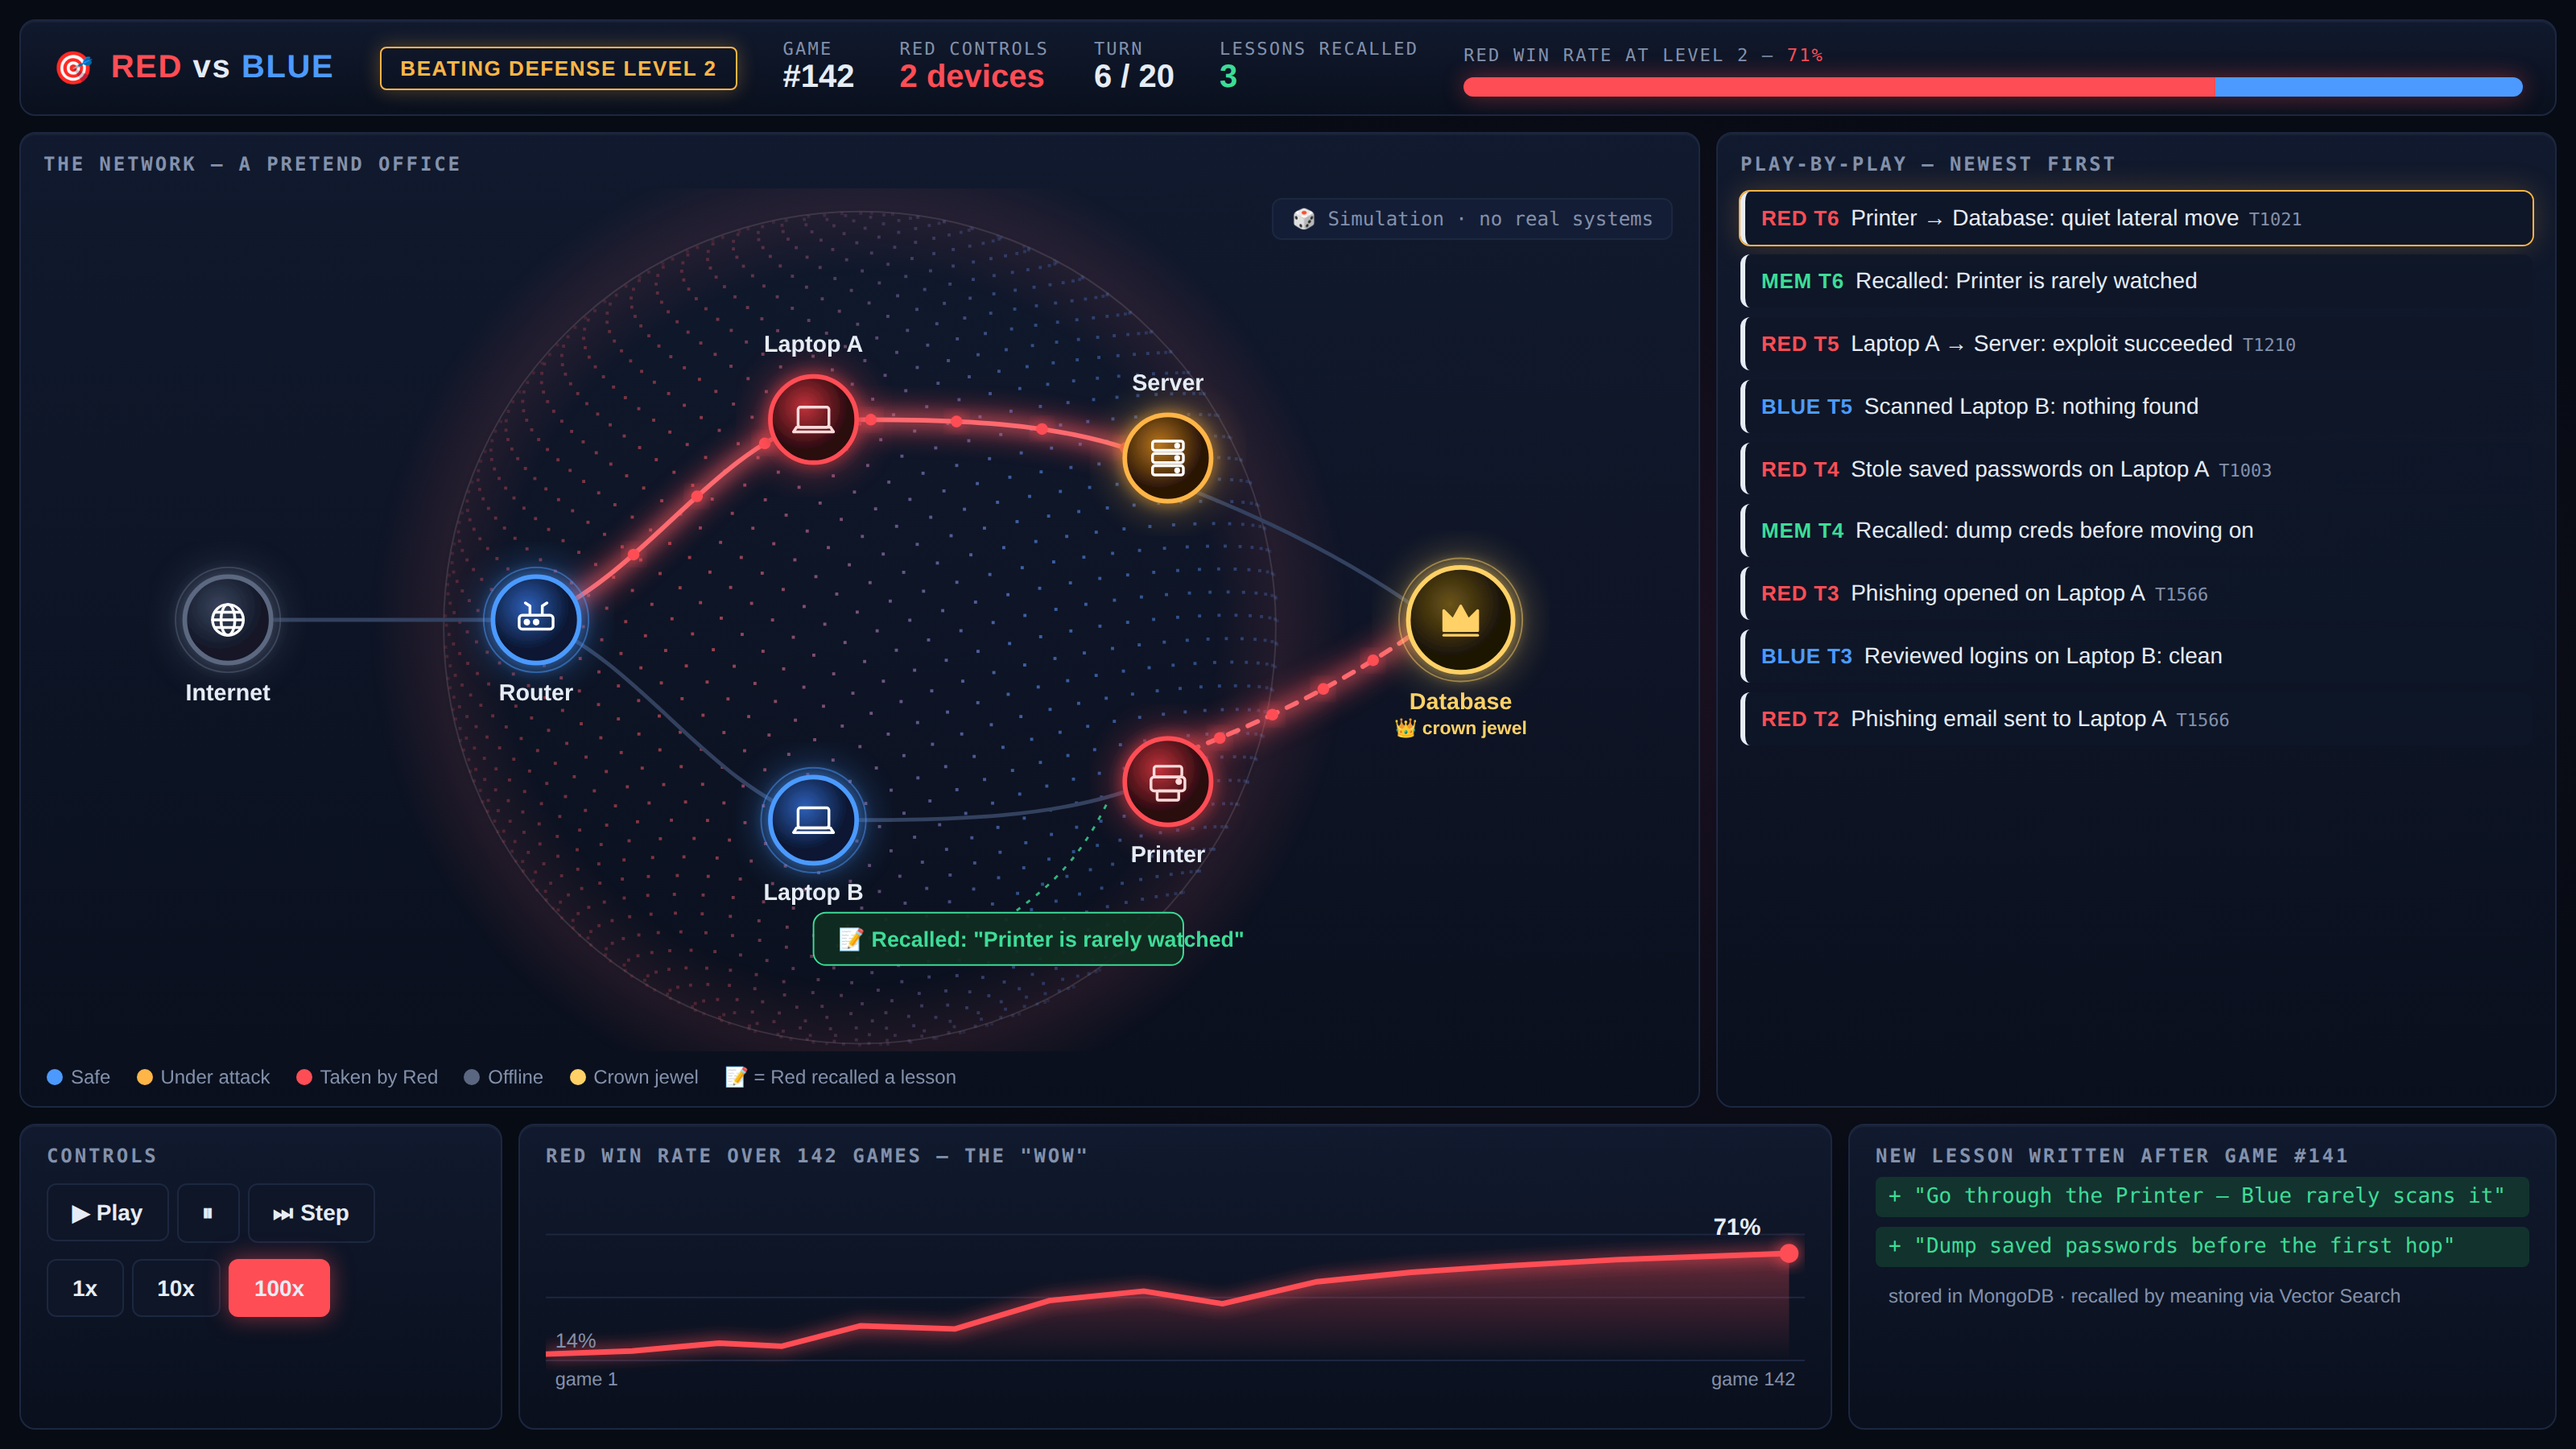
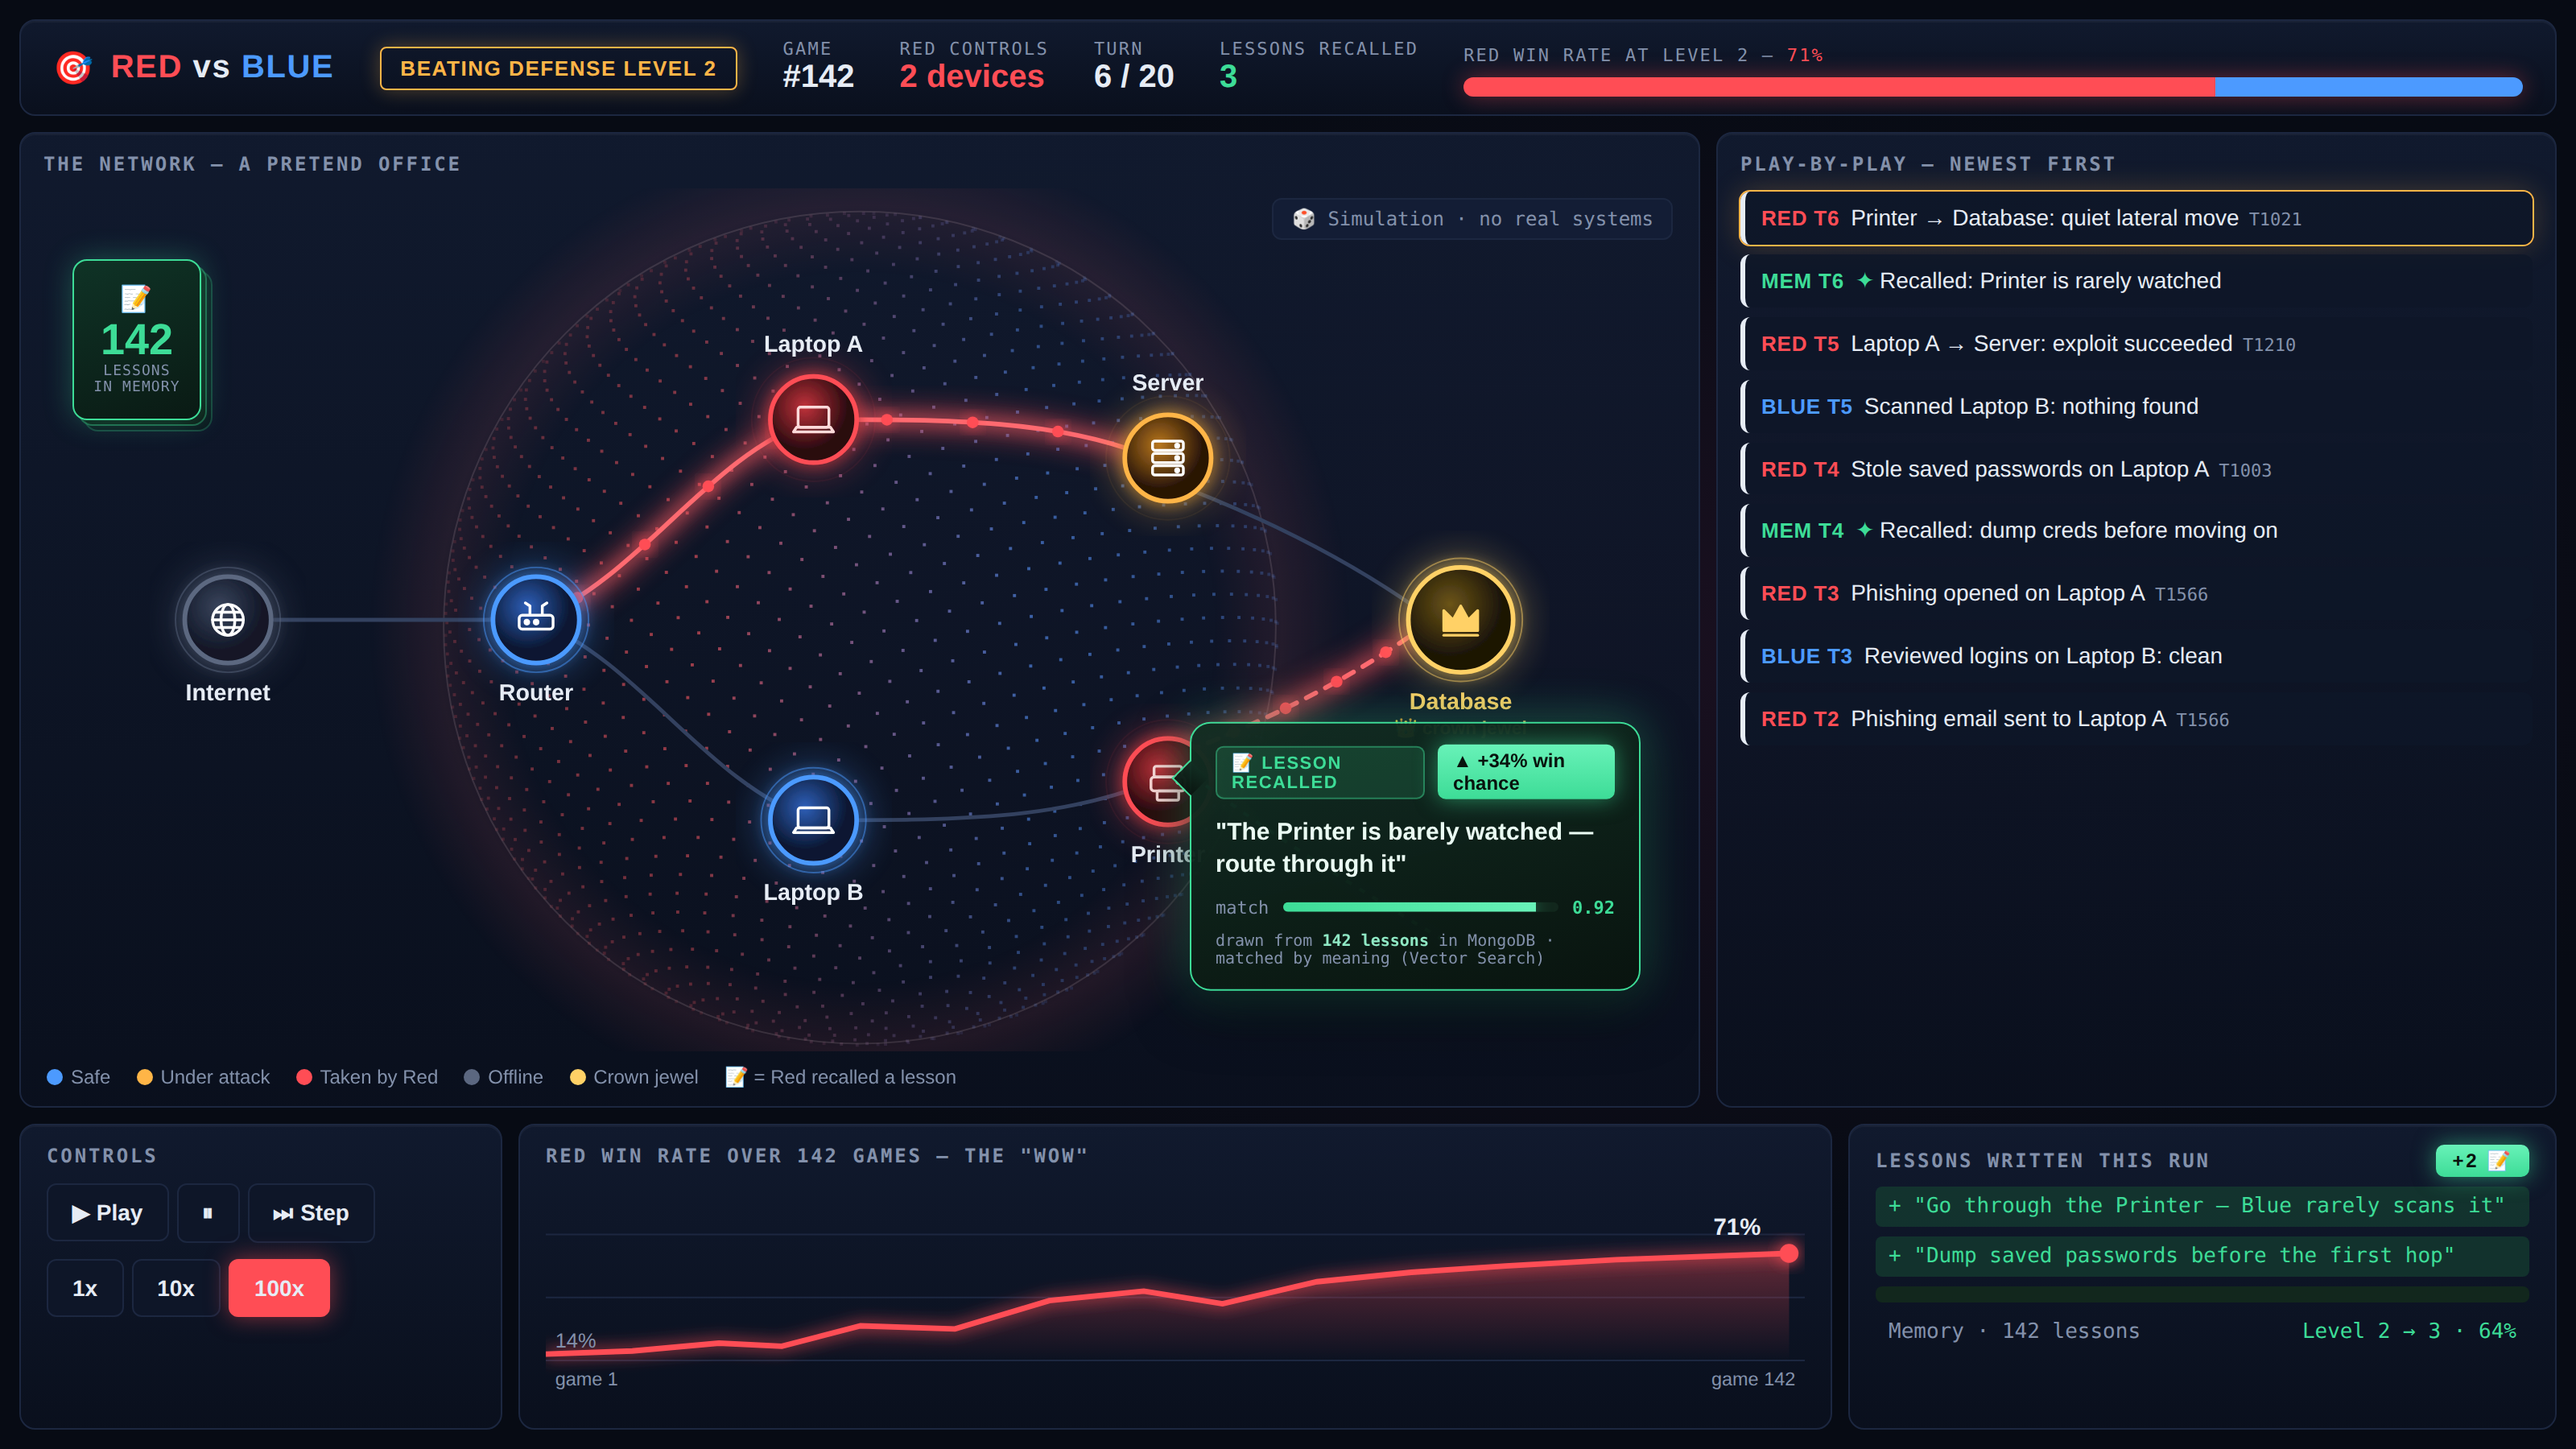
Gamify lesson recall in the arena mockup
Memory recall now plays as a card drawn from the MongoDB deck: 142-lesson
deck, a "LESSON RECALLED" card with match score and win-chance buff, spark
markers on memory log lines, and an XP-style lessons-written panel.

Claude-Session: https://claude.ai/code/session_01UPihwQ6i7LhqfDCRPnRdT9

diff --git a/docs/visuals/arena_red_learns.html b/docs/visuals/arena_red_learns.html
@@ -33,6 +33,33 @@ h3{margin:0;font:600 12px var(--M);color:var(--mut);text-transform:uppercase;let
 .diff div{font:13px var(--M);padding:5px 8px;border-radius:4px;margin-top:6px}
 .add{background:rgba(22,70,50,.6);color:var(--green)}
 .sim{position:absolute;top:40px;right:16px;background:rgba(20,30,54,.9);border:1px solid var(--line);color:var(--mut);padding:5px 11px;border-radius:6px;font:500 12px var(--M)}
+/* --- gamified memory --- */
+.deck{position:absolute;top:44px;left:18px;width:80px;height:100px;z-index:3}
+.deck .c{position:absolute;inset:0;border-radius:9px;background:linear-gradient(160deg,#123024,#0b1a13);border:1px solid rgba(61,220,151,.5)}
+.deck .c:nth-child(1){transform:translate(7px,7px);opacity:.45}
+.deck .c:nth-child(2){transform:translate(3.5px,3.5px);opacity:.72}
+.deck .face{position:absolute;inset:0;border-radius:9px;background:linear-gradient(160deg,#0f3326,#0a1a14);border:1px solid var(--green);box-shadow:0 0 18px rgba(61,220,151,.3);display:flex;flex-direction:column;align-items:center;justify-content:center;gap:1px}
+.deck .face b{font:700 27px var(--D);color:var(--green);line-height:1}
+.deck .face span{font:500 9px var(--M);color:var(--mut);text-align:center;text-transform:uppercase;letter-spacing:.06em}
+.deck .face .pen{font-size:16px;margin-bottom:2px}
+.lcard{position:absolute;right:22px;bottom:34px;width:280px;z-index:5;border-radius:13px;padding:13px 15px;background:linear-gradient(165deg,rgba(18,46,35,.97),rgba(9,20,15,.98));border:1px solid var(--green);box-shadow:0 12px 34px rgba(0,0,0,.55),0 0 30px rgba(61,220,151,.4);animation:cardin .5s ease-out both,floaty 4s ease-in-out infinite}
+.lcard .arrow{position:absolute;left:-9px;top:26px;width:16px;height:16px;background:linear-gradient(165deg,rgba(18,46,35,.97),rgba(9,20,15,.98));border-left:1px solid var(--green);border-bottom:1px solid var(--green);transform:rotate(45deg)}
+.lcard-h{display:flex;justify-content:space-between;align-items:center;gap:8px}
+.chip{font:700 11px var(--D);letter-spacing:.07em;color:var(--green);background:rgba(61,220,151,.14);border:1px solid rgba(61,220,151,.42);padding:3px 9px;border-radius:5px}
+.xp{font:700 12px var(--D);color:#08130d;background:linear-gradient(180deg,#68f2b8,#3DDC97);padding:3px 10px;border-radius:5px;box-shadow:0 0 14px rgba(61,220,151,.55)}
+.lcard-body{margin:11px 0 9px;font:600 15px/1.36 "IBM Plex Sans",Helvetica,Arial,sans-serif;color:#EAFBF3}
+.lcard-meta{display:flex;align-items:center;gap:9px;font:500 11px var(--M);color:var(--mut)}
+.mbar{flex:1;height:6px;border-radius:3px;background:#12271d;overflow:hidden}
+.mbar i{display:block;height:100%;width:92%;background:linear-gradient(90deg,#3DDC97,#68f2b8);box-shadow:0 0 10px rgba(61,220,151,.6)}
+.mscore{color:var(--green);font-weight:600}
+.lcard-foot{margin-top:9px;font:500 10px var(--M);color:var(--mut)}
+.lcard-foot b{color:#8fe8c4;font-weight:600}
+@keyframes cardin{from{opacity:0;transform:translateY(16px) scale(.93)}to{opacity:1;transform:translateY(0) scale(1)}}
+@keyframes floaty{0%,100%{transform:translateY(0)}50%{transform:translateY(-5px)}}
+.log .m .spark{color:var(--green);margin-right:3px}
+.xpbar{margin-top:8px;height:7px;border-radius:4px;background:#12271d;overflow:hidden}
+.xpbar i{display:block;height:100%;width:64%;background:linear-gradient(90deg,#3DDC97,#68f2b8);box-shadow:0 0 10px rgba(61,220,151,.5)}
+.tier{display:flex;justify-content:space-between;font:600 11px var(--M);color:var(--mut);margin-top:5px}
 </style></head><body>
 <div class="panel top">
  <div class="brand">🎯 <span><span class="r">RED</span> vs <span class="b">BLUE</span></span></div>
@@ -87,24 +114,35 @@ h3{margin:0;font:600 12px var(--M);color:var(--mut);text-transform:uppercase;let
     <g id="packets"></g>
     <!-- nodes -->
     <g id="nodes" font-family="IBM Plex Sans, Helvetica, Arial, sans-serif" text-anchor="middle"></g>
-    <!-- memory callout -->
-    <g>
-     <path d="M660 400 C 640 440, 620 455, 600 470" fill="none" stroke="#3DDC97" stroke-width="1.5" stroke-dasharray="3 5" opacity=".8"/>
-     <rect x="470" y="470" width="240" height="34" rx="8" fill="rgba(15,45,32,.9)" stroke="#3DDC97"/>
-     <text x="486" y="492" fill="#3DDC97" font-size="14" font-weight="600" font-family="IBM Plex Sans, Helvetica, Arial, sans-serif">📝 Recalled: "Printer is rarely watched"</text>
-    </g>
+    <!-- recall beam from Printer down to the lesson card -->
+    <path d="M712 378 C 780 430, 850 470, 892 496" fill="none" stroke="#3DDC97" stroke-width="2.2" stroke-dasharray="4 6" opacity=".9" filter="url(#glow)">
+     <animate attributeName="stroke-dashoffset" from="0" to="-40" dur="1.1s" repeatCount="indefinite"/>
+    </path>
    </svg>
+   <!-- memory deck -->
+   <div class="deck" title="lessons in memory">
+    <div class="c"></div><div class="c"></div>
+    <div class="face"><span class="pen">📝</span><b>142</b><span>lessons<br>in memory</span></div>
+   </div>
+   <!-- gamified lesson card (pulled on recall) -->
+   <div class="lcard">
+    <div class="arrow"></div>
+    <div class="lcard-h"><span class="chip">📝 LESSON RECALLED</span><span class="xp">▲ +34% win chance</span></div>
+    <div class="lcard-body">"The Printer is barely watched — route through it"</div>
+    <div class="lcard-meta"><span>match</span><div class="mbar"><i></i></div><span class="mscore">0.92</span></div>
+    <div class="lcard-foot">drawn from <b>142 lessons</b> in MongoDB · matched by meaning (Vector Search)</div>
+   </div>
   </div>
   <div class="legend"><span><i style="background:var(--blue)"></i>Safe</span><span><i style="background:var(--amber)"></i>Under attack</span><span><i style="background:var(--red)"></i>Taken by Red</span><span><i style="background:#5B6780"></i>Offline</span><span><i style="background:var(--gold)"></i>Crown jewel</span><span>📝 = Red recalled a lesson</span></div>
  </div>
 
  <div class="panel log"><h3 style="margin-bottom:4px">Play-by-play — newest first</h3>
   <div class="r new"><span class="tag tr">RED T6</span>Printer → Database: quiet lateral move<span class="mitre">T1021</span></div>
-  <div class="m"><span class="tag tm">MEM T6</span>Recalled: Printer is rarely watched</div>
+  <div class="m"><span class="tag tm">MEM T6</span><span class="spark">✦</span>Recalled: Printer is rarely watched</div>
   <div class="r"><span class="tag tr">RED T5</span>Laptop A → Server: exploit succeeded<span class="mitre">T1210</span></div>
   <div class="b"><span class="tag tb">BLUE T5</span>Scanned Laptop B: nothing found</div>
   <div class="r"><span class="tag tr">RED T4</span>Stole saved passwords on Laptop A<span class="mitre">T1003</span></div>
-  <div class="m"><span class="tag tm">MEM T4</span>Recalled: dump creds before moving on</div>
+  <div class="m"><span class="tag tm">MEM T4</span><span class="spark">✦</span>Recalled: dump creds before moving on</div>
   <div class="r"><span class="tag tr">RED T3</span>Phishing opened on Laptop A<span class="mitre">T1566</span></div>
   <div class="b"><span class="tag tb">BLUE T3</span>Reviewed logins on Laptop B: clean</div>
   <div class="r"><span class="tag tr">RED T2</span>Phishing email sent to Laptop A<span class="mitre">T1566</span></div>
@@ -124,10 +162,11 @@ h3{margin:0;font:600 12px var(--M);color:var(--mut);text-transform:uppercase;let
    <text x="6" y="102" fill="#8391AB" font-size="13">14%</text>
    <text x="6" y="126" fill="#8391AB" font-size="12">game 1</text><text x="794" y="126" fill="#8391AB" font-size="12" text-anchor="end">game 142</text>
   </svg></div>
- <div class="panel diff"><h3>New lesson written after game #141</h3>
+ <div class="panel diff"><h3 style="display:flex;justify-content:space-between;align-items:center"><span>Lessons written this run</span><span class="xp">+2 📝</span></h3>
   <div class="add">+ "Go through the Printer — Blue rarely scans it"</div>
   <div class="add">+ "Dump saved passwords before the first hop"</div>
-  <div style="color:var(--mut);font:12px 'IBM Plex Sans',Helvetica,Arial,sans-serif;margin-top:6px">stored in MongoDB · recalled by meaning via Vector Search</div></div>
+  <div class="xpbar"><i></i></div>
+  <div class="tier"><span>Memory · 142 lessons</span><span style="color:var(--green)">Level 2 → 3 · 64%</span></div></div>
 </div>
 
 <script>
